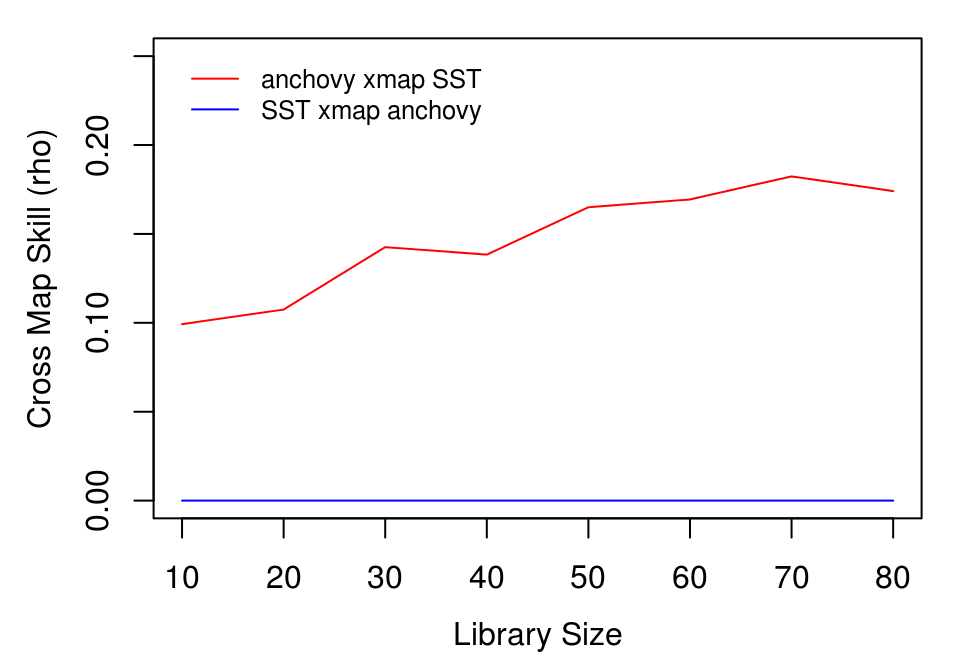
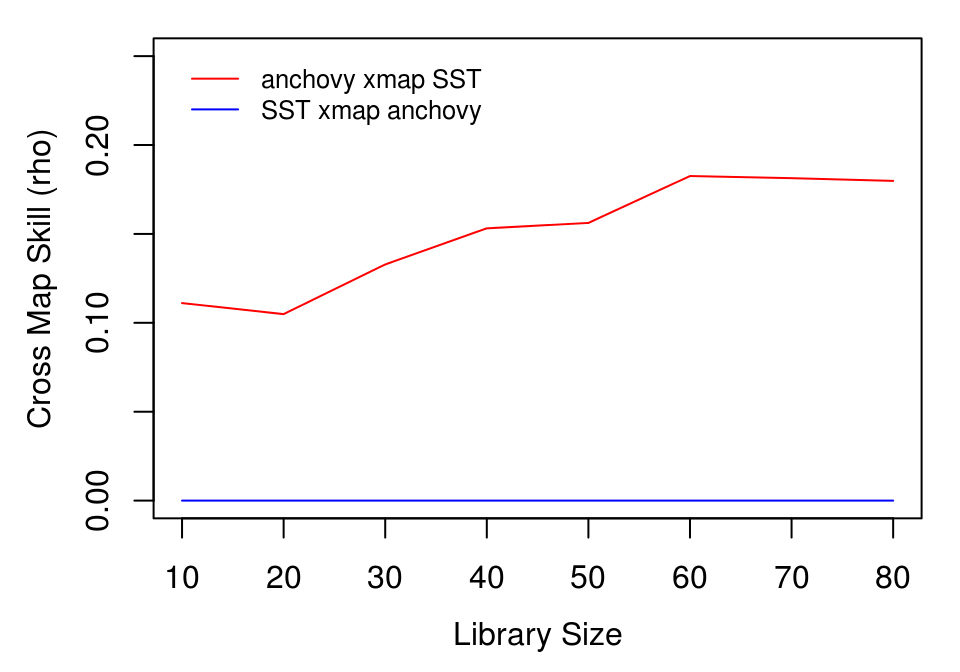
Deploy ha0ye/rEDM to github.com/ha0ye/rEDM.git:gh-pages

diff --git a/articles/rEDM.html b/articles/rEDM.html
@@ -487,9 +487,9 @@
 ##  $ target_column: Factor w/ 1 level "np_sst": 1 1 1 1 1 1 1 1 1 1 ...
 ##  $ lib_size     : num  10 10 10 10 10 10 10 10 10 10 ...
 ##  $ num_pred     : num  76 76 76 76 76 76 76 76 76 76 ...
-##  $ rho          : num  0.023 0.1775 0.0204 -0.2199 0.1379 ...
-##  $ mae          : num  0.853 0.997 0.874 1.009 0.892 ...
-##  $ rmse         : num  1.09 1.19 1.05 1.22 1.11 ...</code></pre>
+##  $ rho          : num  -0.26342 0.06647 0.25053 0.00419 0.19422 ...
+##  $ mae          : num  1.008 0.898 1.046 0.919 0.876 ...
+##  $ rmse         : num  1.22 1.09 1.28 1.13 1.1 ...</code></pre>
 <p>The output is a data.frame with statistics for each model run (in this case, 100 models at each of 8 library sizes). To interpret the results, we aggregate the cross map performance at each library size using the <code><a href="../reference/ccm_means.html">ccm_means()</a></code> function, which computes a mean value at each unique <code>lib_size</code>. Because average cross map skill less than 0 means there is no prediction skill, (predictions should not be anticorrelated with observations), we set negative values to 0 when plotting.</p>
 <div class="sourceCode" id="cb35"><pre class="sourceCode r"><code class="sourceCode r"><a class="sourceLine" id="cb35-1" data-line-number="1">a_xmap_t_means &lt;-<span class="st"> </span><span class="kw"><a href="../reference/ccm_means.html">ccm_means</a></span>(anchovy_xmap_sst)</a>
 <a class="sourceLine" id="cb35-2" data-line-number="2">t_xmap_a_means &lt;-<span class="st"> </span><span class="kw"><a href="../reference/ccm_means.html">ccm_means</a></span>(sst_xmap_anchovy)</a>
